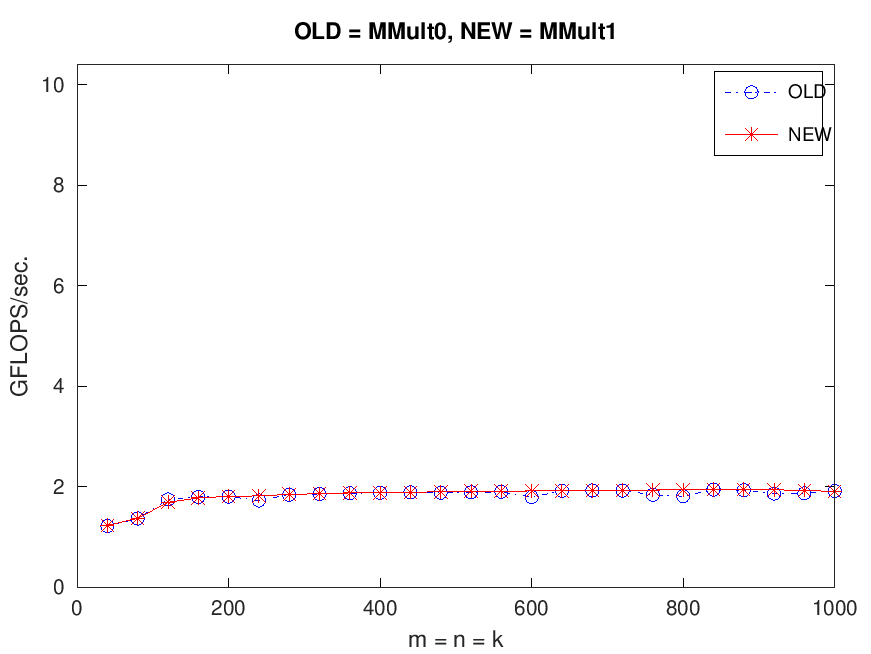
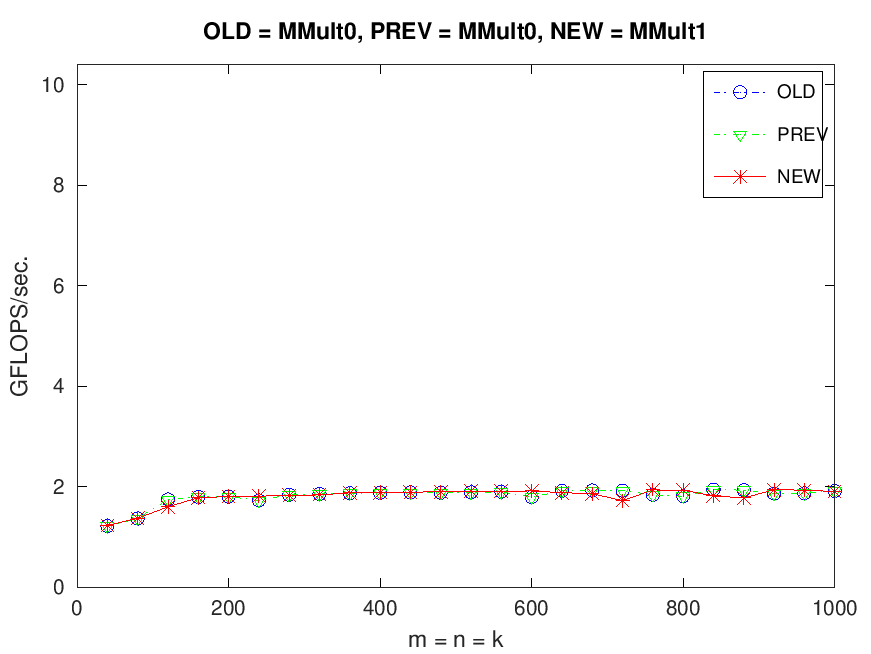
update: test with PREV

diff --git a/src/HowToOptimizeGemm/output_new.m b/src/HowToOptimizeGemm/output_new.m
@@ -1,28 +1,28 @@
-version = 'MMult2';
+version = 'MMult1';
 MY_MMult = [
-40 1.196262e+00 0.000000e+00 
-80 1.349144e+00 0.000000e+00 
-120 1.722832e+00 0.000000e+00 
-160 1.813192e+00 0.000000e+00 
-200 1.738941e+00 0.000000e+00 
-240 1.813340e+00 0.000000e+00 
-280 1.836142e+00 0.000000e+00 
-320 1.733069e+00 0.000000e+00 
-360 1.861846e+00 0.000000e+00 
-400 1.875568e+00 0.000000e+00 
-440 1.863330e+00 0.000000e+00 
-480 1.874663e+00 0.000000e+00 
-520 1.882693e+00 0.000000e+00 
-560 1.875758e+00 0.000000e+00 
-600 1.886232e+00 0.000000e+00 
-640 1.890341e+00 0.000000e+00 
-680 1.869388e+00 0.000000e+00 
-720 1.895728e+00 0.000000e+00 
-760 1.811776e+00 0.000000e+00 
-800 1.792215e+00 0.000000e+00 
-840 1.799831e+00 0.000000e+00 
-880 1.922314e+00 0.000000e+00 
-920 1.793313e+00 0.000000e+00 
-960 1.810363e+00 0.000000e+00 
-1000 1.757811e+00 0.000000e+00 
+40 1.230769e+00 0.000000e+00 
+80 1.374497e+00 0.000000e+00 
+120 1.602225e+00 0.000000e+00 
+160 1.781257e+00 0.000000e+00 
+200 1.807297e+00 0.000000e+00 
+240 1.813221e+00 0.000000e+00 
+280 1.830706e+00 0.000000e+00 
+320 1.838472e+00 0.000000e+00 
+360 1.878677e+00 0.000000e+00 
+400 1.886653e+00 0.000000e+00 
+440 1.894831e+00 0.000000e+00 
+480 1.900386e+00 0.000000e+00 
+520 1.907907e+00 0.000000e+00 
+560 1.913987e+00 0.000000e+00 
+600 1.916346e+00 0.000000e+00 
+640 1.882650e+00 0.000000e+00 
+680 1.862821e+00 0.000000e+00 
+720 1.723376e+00 0.000000e+00 
+760 1.937318e+00 0.000000e+00 
+800 1.931514e+00 0.000000e+00 
+840 1.818674e+00 0.000000e+00 
+880 1.778657e+00 0.000000e+00 
+920 1.941439e+00 0.000000e+00 
+960 1.932761e+00 0.000000e+00 
+1000 1.906950e+00 0.000000e+00 
 ];

diff --git a/src/HowToOptimizeGemm/output_MMult1.m b/src/HowToOptimizeGemm/output_MMult1.m
@@ -2,27 +2,27 @@ version = 'MMult1';
 MY_MMult = [
 40 1.230769e+00 0.000000e+00 
 80 1.374497e+00 0.000000e+00 
-120 1.689976e+00 0.000000e+00 
-160 1.779322e+00 0.000000e+00 
-200 1.809750e+00 0.000000e+00 
-240 1.819067e+00 0.000000e+00 
-280 1.848745e+00 0.000000e+00 
-320 1.862506e+00 0.000000e+00 
-360 1.878034e+00 0.000000e+00 
-400 1.882962e+00 0.000000e+00 
-440 1.892831e+00 0.000000e+00 
-480 1.900761e+00 0.000000e+00 
-520 1.908153e+00 0.000000e+00 
-560 1.913727e+00 0.000000e+00 
-600 1.916516e+00 0.000000e+00 
-640 1.923590e+00 0.000000e+00 
-680 1.926749e+00 0.000000e+00 
-720 1.932020e+00 0.000000e+00 
-760 1.936203e+00 0.000000e+00 
-800 1.941773e+00 0.000000e+00 
-840 1.946051e+00 0.000000e+00 
-880 1.945548e+00 0.000000e+00 
-920 1.940467e+00 0.000000e+00 
-960 1.928864e+00 0.000000e+00 
-1000 1.906163e+00 0.000000e+00 
+120 1.602225e+00 0.000000e+00 
+160 1.781257e+00 0.000000e+00 
+200 1.807297e+00 0.000000e+00 
+240 1.813221e+00 0.000000e+00 
+280 1.830706e+00 0.000000e+00 
+320 1.838472e+00 0.000000e+00 
+360 1.878677e+00 0.000000e+00 
+400 1.886653e+00 0.000000e+00 
+440 1.894831e+00 0.000000e+00 
+480 1.900386e+00 0.000000e+00 
+520 1.907907e+00 0.000000e+00 
+560 1.913987e+00 0.000000e+00 
+600 1.916346e+00 0.000000e+00 
+640 1.882650e+00 0.000000e+00 
+680 1.862821e+00 0.000000e+00 
+720 1.723376e+00 0.000000e+00 
+760 1.937318e+00 0.000000e+00 
+800 1.931514e+00 0.000000e+00 
+840 1.818674e+00 0.000000e+00 
+880 1.778657e+00 0.000000e+00 
+920 1.941439e+00 0.000000e+00 
+960 1.932761e+00 0.000000e+00 
+1000 1.906950e+00 0.000000e+00 
 ];

diff --git a/src/HowToOptimizeGemm/output_prev.m b/src/HowToOptimizeGemm/output_prev.m
@@ -1,0 +1,28 @@
+version = 'MMult0';
+MY_MMult = [
+40 1.219048e+00 0.000000e+00 
+80 1.368984e+00 0.000000e+00 
+120 1.748988e+00 0.000000e+00 
+160 1.798463e+00 0.000000e+00 
+200 1.803833e+00 0.000000e+00 
+240 1.729081e+00 0.000000e+00 
+280 1.841225e+00 0.000000e+00 
+320 1.857017e+00 0.000000e+00 
+360 1.871030e+00 0.000000e+00 
+400 1.881716e+00 0.000000e+00 
+440 1.889346e+00 0.000000e+00 
+480 1.881296e+00 0.000000e+00 
+520 1.890477e+00 0.000000e+00 
+560 1.901048e+00 0.000000e+00 
+600 1.794325e+00 0.000000e+00 
+640 1.919984e+00 0.000000e+00 
+680 1.926643e+00 0.000000e+00 
+720 1.925929e+00 0.000000e+00 
+760 1.841682e+00 0.000000e+00 
+800 1.812954e+00 0.000000e+00 
+840 1.943190e+00 0.000000e+00 
+880 1.933317e+00 0.000000e+00 
+920 1.864464e+00 0.000000e+00 
+960 1.871590e+00 0.000000e+00 
+1000 1.916682e+00 0.000000e+00 
+];
